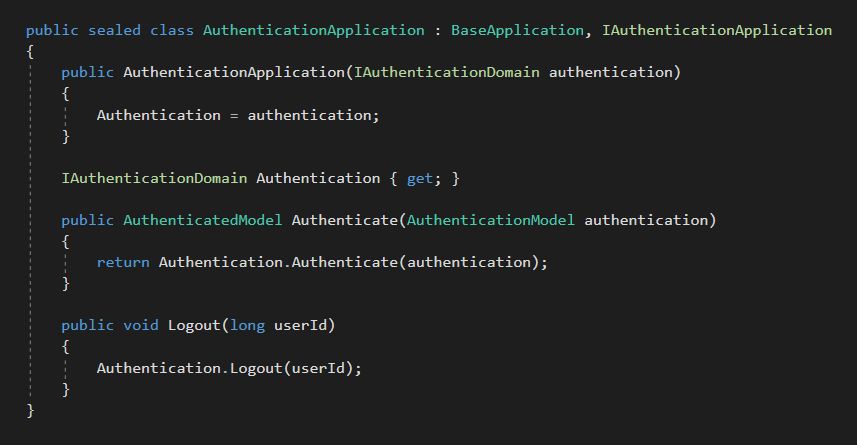
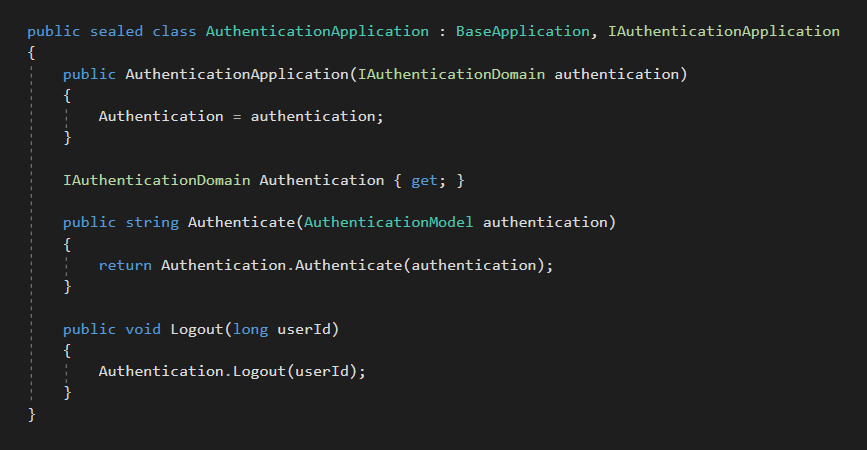
Authentication improvements.

diff --git a/Domain/Domains/Authentication/AuthenticationDomain.cs b/Domain/Domains/Authentication/AuthenticationDomain.cs
@@ -26,21 +26,19 @@ namespace Solution.Domain.Domains
 		IJsonWebToken JsonWebToken { get; }
 		IUserLogDomain UserLog { get; }
 
-		public AuthenticatedModel Authenticate(AuthenticationModel authentication)
+		public string Authenticate(AuthenticationModel authentication)
 		{
 			new AuthenticationValidation().ValidateThrowException(authentication);
 
-			CreateHash(authentication);
+			SetHash(authentication);
 
 			var authenticated = Database.User.Authenticate(authentication);
 
 			new AuthenticatedValidation().ValidateThrowException(authenticated);
 
-			CreateJwt(authenticated);
-
 			UserLog.Save(authenticated.UserId, LogType.Login);
 
-			return authenticated;
+			return GetJwt(authenticated);
 		}
 
 		public void Logout(long userId)
@@ -48,16 +46,16 @@ namespace Solution.Domain.Domains
 			UserLog.Save(userId, LogType.Logout);
 		}
 
-		private void CreateHash(AuthenticationModel authentication)
+		private string GetJwt(AuthenticatedModel authenticated)
+		{
+			var roles = authenticated.Roles.Select(role => role.ToString()).ToArray();
+			return JsonWebToken.Encode(authenticated.UserId.ToString(), roles);
+		}
+
+		private void SetHash(AuthenticationModel authentication)
 		{
 			authentication.Login = Hash.Create(authentication.Login);
 			authentication.Password = Hash.Create(authentication.Password);
-		}
-
-		private void CreateJwt(AuthenticatedModel authenticated)
-		{
-			var roles = authenticated.Roles.Select(role => role.ToString()).ToArray();
-			authenticated.Jwt = JsonWebToken.Encode(authenticated.UserId.ToString(), roles);
 		}
 	}
 }

diff --git a/Web/UserInterface/Controllers/AuthenticationServiceController.cs b/Web/UserInterface/Controllers/AuthenticationServiceController.cs
@@ -22,7 +22,7 @@ namespace Solution.Web.UserInterface.Controllers
 		[HttpPost("[action]")]
 		public IActionResult Authenticate([FromBody]AuthenticationModel authentication)
 		{
-			return Json(Authentication.Authenticate(authentication).Jwt);
+			return Json(Authentication.Authenticate(authentication));
 		}
 
 		[HttpPost("[action]")]

diff --git a/Application/Applications/Authentication/AuthenticationApplication.cs b/Application/Applications/Authentication/AuthenticationApplication.cs
@@ -12,7 +12,7 @@ namespace Solution.Application.Applications
 
 		IAuthenticationDomain Authentication { get; }
 
-		public AuthenticatedModel Authenticate(AuthenticationModel authentication)
+		public string Authenticate(AuthenticationModel authentication)
 		{
 			return Authentication.Authenticate(authentication);
 		}

diff --git a/Application/Applications/Authentication/IAuthenticationApplication.cs b/Application/Applications/Authentication/IAuthenticationApplication.cs
@@ -4,7 +4,7 @@ namespace Solution.Application.Applications
 {
 	public interface IAuthenticationApplication : IBaseApplication
 	{
-		AuthenticatedModel Authenticate(AuthenticationModel authentication);
+		string Authenticate(AuthenticationModel authentication);
 
 		void Logout(long userId);
 	}

diff --git a/Domain/Domains/Authentication/IAuthenticationDomain.cs b/Domain/Domains/Authentication/IAuthenticationDomain.cs
@@ -4,7 +4,7 @@ namespace Solution.Domain.Domains
 {
 	public interface IAuthenticationDomain : IBaseDomain
 	{
-		AuthenticatedModel Authenticate(AuthenticationModel authentication);
+		string Authenticate(AuthenticationModel authentication);
 
 		void Logout(long userId);
 	}

diff --git a/Model/Models/Authenticated/AuthenticatedModel.cs b/Model/Models/Authenticated/AuthenticatedModel.cs
@@ -5,8 +5,6 @@ namespace Solution.Model.Models
 {
 	public class AuthenticatedModel
 	{
-		public string Jwt { get; set; }
-
 		public IEnumerable<Roles> Roles { get; set; } = new List<Roles>();
 
 		public long UserId { get; set; }
